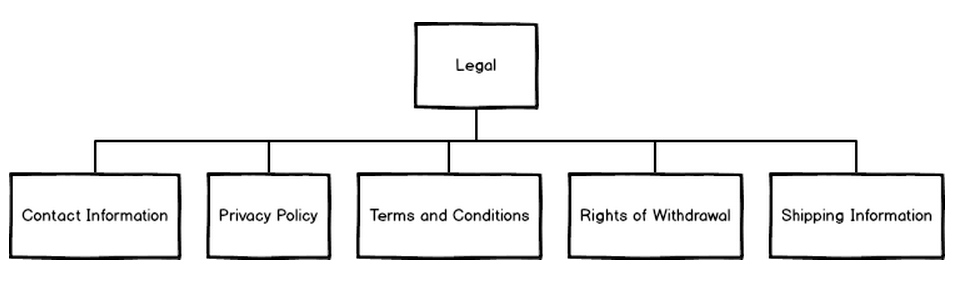
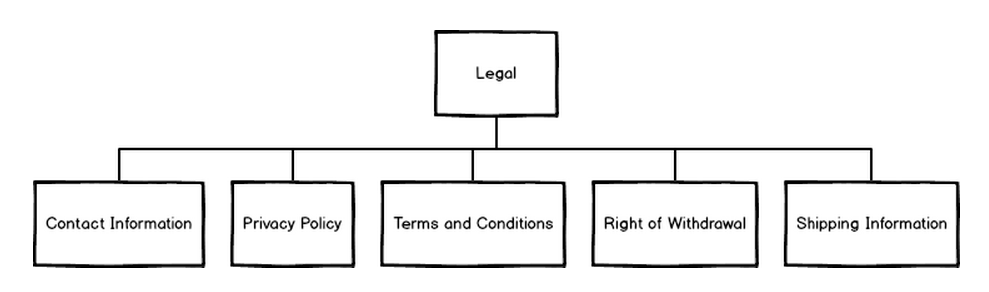
Add feedback from PM
* TW-128

Changed region(s): [[0.0, 0.0616, 0.999, 0.9247]]

diff --git a/apps/api-reference/resource-legal.md b/apps/api-reference/resource-legal.md
@@ -4,7 +4,7 @@ key: api-resources-legal
 title: Legal
 ---
 
-Legal holds the shop's key information on contact information, privacy policy, terms and conditions, rights and withdrawal and shipping information.
+Legal holds the shop's key information on contact information, privacy policy, terms and conditions, right and withdrawal and shipping information.
 
 {% image legal-overview.png %}{% endimage %}
 
